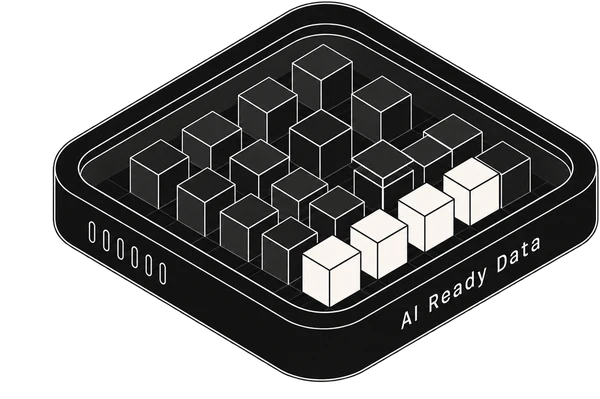
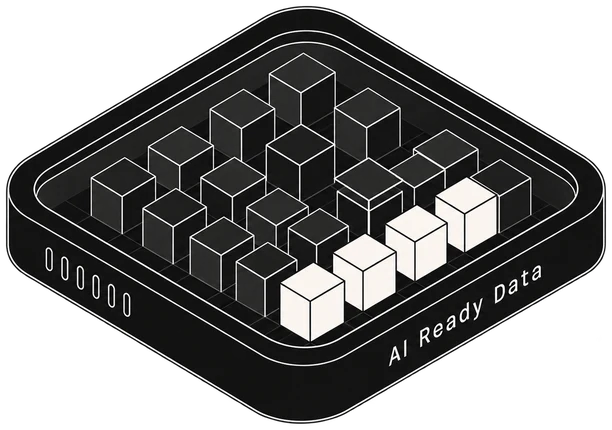
Equal chip bodies, band as designed, rows draw in from their own rule, busier transcript
Chips are cut to the same solid body width (their soft edges had made the
boxes, not the chips, equal). The specimen band keeps its Figma colours; the
per layer dimming is gone. A frame line that was hidden now jumps to its new
place before it draws in, so on 08 to 09 the rows grow left from the right
rule instead of sliding up from the rows of the last screen. The Hear
transcript has two lines per speaker turn, so it moves about every 1.5 s.

diff --git a/js/main.js b/js/main.js
@@ -71,13 +71,27 @@
   var lastCol = 720, lastCol2 = 960, lastRows = [248, 416, 583, 617];
   // Pieces are sized to their real length (a stretched 1 px square blurs on the GPU) and drawn in
   // or retracted with a 0 to 1 scale, which rests at 1 so the line stays crisp.
+  // A piece that was hidden jumps to its new place before it appears, so it draws in from its own
+  // rule (a row grows left from the right rule) instead of sliding over from the last screen.
+  function snap(el, apply) {
+    el.style.transition = "none"; apply(); void el.offsetWidth; el.style.transition = "";
+  }
   function put(el, x, y, o) {
-    el.style.transform = "translate(" + x + "px," + y + "px)";
-    if (o != null) el.style.opacity = o;
+    var tr = "translate(" + x + "px," + y + "px)";
+    if (o != null) {
+      if (!o) { el._on = false; el.style.opacity = 0; return; }      // fades out where it is
+      if (!el._on) snap(el, function () { el.style.transform = tr; el.style.opacity = 0; });
+      el._on = true; el.style.opacity = o;
+    }
+    el.style.transform = tr;
   }
   function seg(el, x, y, w, h, on) {
+    var tr = function (k) { return "translate(" + x + "px," + y + "px) scale(" + (w === 1 ? 1 : k) + "," + (h === 1 ? 1 : k) + ")"; };
+    if (on && !el._on) snap(el, function () { el.style.width = w + "px"; el.style.height = h + "px"; el.style.transform = tr(0); });
+    el._on = !!on;
+    if (!on) { el.style.transform = el.style.transform.replace(/scale\([^)]*\)/, "scale(" + (w === 1 ? 1 : 0) + "," + (h === 1 ? 1 : 0) + ")"); return; }
     el.style.width = w + "px"; el.style.height = h + "px";
-    el.style.transform = "translate(" + x + "px," + y + "px) scale(" + (w === 1 ? 1 : on) + "," + (h === 1 ? 1 : on) + ")";
+    el.style.transform = tr(1);
   }
 
   function applyGeometry(i) {
@@ -233,14 +247,12 @@
 
   // 02 Specimen: five layers, each one play of the clip; the underline under the active layer
   // fills as the clip plays, and the next layer starts when the clip ends. The centre stays clear:
-  // a layer changes the footage, the readout under the clock and the band's figures.
+  // a layer changes the footage and the readout under the clock; the band stays as designed.
   (function () {
     var scene = scenes[1];
     var raw = stage.querySelector(".spec-vid--raw"), ann = stage.querySelector(".spec-vid--annotated");
     var toggles = Array.prototype.slice.call(scene.querySelectorAll(".toggle"));
     var layers = Array.prototype.slice.call(scene.querySelectorAll(".readout__item"));
-    var metrics = scene.querySelector(".metrics");
-    var chips = Array.prototype.slice.call(metrics.children);
     var clock = document.getElementById("spec-clock");
     var layer = 0, active = false, raf = 0, v = raw;
     function videoFor(l) { return l === 1 ? ann : raw; }
@@ -253,9 +265,6 @@
       play(v);
       toggles.forEach(function (t, i) { t.classList.toggle("is-active", i === l); t.setAttribute("aria-selected", i === l); t.style.setProperty("--progress", 0); });
       layers.forEach(function (x) { x.classList.toggle("is-on", +x.dataset.layer === l); });
-      var any = false;
-      chips.forEach(function (c) { var on = +c.dataset.for === l; c.classList.toggle("is-hl", on); any = any || on; });
-      metrics.classList.toggle("is-focused", any);
     }
     function tick() {
       if (!active) return;
@@ -276,8 +285,8 @@
 
   // 04 Hear: the waveform plays like an audio player (visual only). The playhead crosses it,
   // bars before it light up, and the transcript scrolls so the line being spoken holds its slot.
-  // One clock drives all three: a line becomes current the moment the playhead enters its
-  // speaker's cell, and its timestamp is the time the playhead shows at that moment.
+  // One clock drives all three: each speaker's cell holds two lines, a line becomes current the
+  // moment the playhead reaches it, and its timestamp is the time the playhead shows then.
   (function () {
     var barsEl = document.getElementById("wave-bars");
     var ph = document.getElementById("playhead"), phTime = document.getElementById("playhead-time");
@@ -313,7 +322,7 @@
         var rel = j - a;
         l.className = rel === 0 ? "is-active" : rel === -1 ? "is-past" : rel === -2 ? "is-far" : rel === 1 ? "is-next" : "";
       });
-      speakers.forEach(function (sp, j) { sp.classList.toggle("is-active", j === idx); });
+      speakers.forEach(function (sp, j) { sp.classList.toggle("is-active", j === Math.floor(idx / 2)); });
       if (jump) { box.classList.remove("is-reset"); void box.offsetWidth; box.classList.add("is-reset"); requestAnimationFrame(function () { list.classList.remove("is-jump"); }); }
     }
     function tick(now) {
@@ -328,7 +337,8 @@
         else for (var k = Math.max(0, lastBar + 1); k <= upto && k < bars.length; k++) bars[k].classList.add("is-played");
         lastBar = upto;
       }
-      var idx = SEG.findIndex(function (s) { return x >= s[0] && x < s[1]; });
+      var cell = SEG.findIndex(function (s) { return x >= s[0] && x < s[1]; });
+      var idx = cell < 0 ? -1 : cell * 2 + (x >= (SEG[cell][0] + SEG[cell][1]) / 2 ? 1 : 0);
       if (idx !== lastIdx && idx > -1) { speak(idx, idx < lastIdx || lastIdx === -1); lastIdx = idx; }
       raf = requestAnimationFrame(tick);
     }

diff --git a/index.html b/index.html
@@ -8,7 +8,7 @@
   <meta name="theme-color" content="#000000">
   <link rel="preload" href="assets/fonts/Satoshi-Medium.woff" as="font" type="font/woff" crossorigin>
   <link rel="preload" href="assets/video/01-home.jpg?v=4" as="image">
-  <link rel="stylesheet" href="css/style.css?v=8">
+  <link rel="stylesheet" href="css/style.css?v=9">
 </head>
 <body>
   <main class="stage" id="stage">
@@ -80,11 +80,11 @@
         <div class="band band--wide ay" style="left:105px">
           <span class="t-l14">CABG Surgery 024</span>
           <span class="metrics">
-            <span data-for="0"><b class="t-l14">4K</b><i class="t-caps12 c-muted">Video</i></span>
-            <span data-for="0"><b class="t-l14">60 FPS</b><i class="t-caps12 c-muted">Capture rate</i></span>
-            <span data-for="1"><b class="t-l14">16</b><i class="t-caps12 c-muted">Instrument classes</i></span>
-            <span data-for="3"><b class="t-l14">11</b><i class="t-caps12 c-muted">Procedure phases</i></span>
-            <span data-for="4"><b class="t-l14">6</b><i class="t-caps12 c-muted">Audio channels</i></span>
+            <span><b class="t-l14">4K</b><i class="t-caps12 c-muted">Video</i></span>
+            <span><b class="t-l14">60 FPS</b><i class="t-caps12 c-muted">Capture rate</i></span>
+            <span><b class="t-l14">16</b><i class="t-caps12 c-muted">Instrument classes</i></span>
+            <span><b class="t-l14">11</b><i class="t-caps12 c-muted">Procedure phases</i></span>
+            <span><b class="t-l14">6</b><i class="t-caps12 c-muted">Audio channels</i></span>
           </span>
         </div>
       </section>
@@ -103,13 +103,17 @@
         </div>
         <div class="transcript" id="transcript">
           <ol class="transcript__list">
-            <li><span class="t-caps12">00:42:06 · Surgeon</span><span class="line">Retract there.</span><i class="tick"></i></li>
-            <li><span class="t-caps12">00:42:09 · Nurse</span><span class="line">Suction ready.</span><i class="tick"></i></li>
+            <li><span class="t-caps12">00:42:10 · Surgeon</span><span class="line">Retract there.</span><i class="tick"></i></li>
+            <li><span class="t-caps12">00:42:11 · Nurse</span><span class="line">Clamp is on.</span><i class="tick"></i></li>
             <li><span class="t-caps12">00:42:12 · Surgeon</span><span class="line">Prepare the graft.</span><i class="tick"></i></li>
+            <li><span class="t-caps12">00:42:13 · Surgeon</span><span class="line">Check the length.</span><i class="tick"></i></li>
             <li><span class="t-caps12">00:42:15 · Assistant</span><span class="line">Graft ready.</span><i class="tick"></i></li>
+            <li><span class="t-caps12">00:42:17 · Assistant</span><span class="line">Length is good.</span><i class="tick"></i></li>
             <li><span class="t-caps12">00:42:19 · Surgeon</span><span class="line">Hold here.</span><i class="tick"></i></li>
-            <li><span class="t-caps12">00:42:22 · Nurse</span><span class="line">Irrigation ready.</span><i class="tick"></i></li>
-            <li><span class="t-caps12">00:42:25 · Surgeon</span><span class="line">Next suture.</span><i class="tick"></i></li>
+            <li><span class="t-caps12">00:42:20 · Surgeon</span><span class="line">Suture now.</span><i class="tick"></i></li>
+            <li><span class="t-caps12">00:42:22 · Nurse</span><span class="line">Suction ready.</span><i class="tick"></i></li>
+            <li><span class="t-caps12">00:42:23 · Nurse</span><span class="line">Irrigation ready.</span><i class="tick"></i></li>
+            <li><span class="t-caps12">00:42:24 · Surgeon</span><span class="line">Next suture.</span><i class="tick"></i></li>
           </ol>
         </div>
         <div class="wave ay">
@@ -222,9 +226,9 @@
         <!-- Three chips of one size that open out of one: Hospital data rises, AI ready data drops,
              the secure data layer is revealed between them -->
         <div class="chips axc" role="img" aria-label="Three stacked layers: hospital data, a secure data layer and AI ready data">
-          <img class="chip chip--data" src="assets/img/chip-data.webp?v=2" alt="" width="300" height="200">
-          <img class="chip chip--capture" src="assets/img/chip-capture.webp?v=2" alt="" width="300" height="203">
-          <img class="chip chip--hospitals" src="assets/img/chip-hospitals.webp?v=2" alt="" width="300" height="210">
+          <img class="chip chip--data" src="assets/img/chip-data.webp?v=3" alt="" width="306" height="215">
+          <img class="chip chip--capture" src="assets/img/chip-capture.webp?v=3" alt="" width="306" height="214">
+          <img class="chip chip--hospitals" src="assets/img/chip-hospitals.webp?v=3" alt="" width="306" height="216">
         </div>
       </section>
 
@@ -325,6 +329,6 @@
     </div>
   </main>
 
-  <script src="js/main.js?v=7"></script>
+  <script src="js/main.js?v=8"></script>
 </body>
 </html>

diff --git a/css/style.css b/css/style.css
@@ -174,9 +174,6 @@ button.nav__link:hover { color: var(--paper); }
 .metrics i { font-style: normal; }
 .scene--specimen .band { justify-content: space-between; }
 
-.metrics > span { transition: opacity 350ms ease; }
-.metrics.is-focused > span { opacity: 0.35; }
-.metrics.is-focused > span.is-hl { opacity: 1; }
 
 /* What the layer adds, under the clock */
 .readout { position: absolute; right: 104px; top: 185px; width: 240px; height: 120px; }
@@ -269,14 +266,15 @@ button.nav__link:hover { color: var(--paper); }
 .scene.is-leaving { opacity: 0; transition: opacity var(--out) ease, visibility 0s linear var(--out); }
 
 /* ---------- 11 Hospitals ----------
-   Three chips drawn at one width (300), bottoms 175 apart. They start stacked on the middle
+   Three chips cut to the same solid body width (300, images 306 with a 3 px soft edge),
+   body bottoms 175 apart. They start stacked on the middle
    one, so only the top chip shows, then open out: Hospital data rises, AI ready data drops and
    the secure data layer is revealed. The chips carry their own labels. */
-.chips { position: absolute; left: 812px; top: 124px; width: 300px; height: 576px; --lift: 175px; }
-.chip { position: absolute; left: 0; width: 300px; height: auto; display: block; }
-.chip--hospitals { top: 16px; }
-.chip--capture { top: 198px; }
-.chip--data { top: 376px; }
+.chips { position: absolute; left: 809px; top: 124px; width: 306px; height: 580px; --lift: 175px; }
+.chip { position: absolute; left: 0; width: 306px; height: auto; display: block; }
+.chip--hospitals { top: 14px; }
+.chip--capture { top: 190.5px; }
+.chip--data { top: 364.5px; }
 .scene.is-active .chips { animation: rise 600ms cubic-bezier(0.22, 1, 0.36, 1) both; animation-delay: var(--late, 0ms); }
 .scene.is-active .chip--hospitals { animation: chipUp 1000ms cubic-bezier(0.65, 0, 0.35, 1) both; animation-delay: calc(var(--late, 0ms) + 650ms); }
 .scene.is-active .chip--data { animation: chipDown 1000ms cubic-bezier(0.65, 0, 0.35, 1) both; animation-delay: calc(var(--late, 0ms) + 650ms); }
@@ -408,11 +406,11 @@ button.nav__link:hover { color: var(--paper); }
   .stage-row > .t-b16 { width: auto; font-size: 13px; line-height: 18px; max-width: 45%; }
 
   /* 11 */
-  .chips { left: 50%; top: 76px; margin-left: -110px; width: 220px; height: 420px; --lift: 128px; }
-  .chip { width: 220px; }
-  .chip--hospitals { top: 12px; }
-  .chip--capture { top: 145px; }
-  .chip--data { top: 276px; }
+  .chips { left: 50%; top: 76px; margin-left: -112px; width: 224px; height: 425px; --lift: 128px; }
+  .chip { width: 224px; }
+  .chip--hospitals { top: 10px; }
+  .chip--capture { top: 140px; }
+  .chip--data { top: 267px; }
 
   /* 12 */
   .form { left: 36px; top: 84px; width: calc(100vw - 72px); max-height: calc(100svh - 120px); overflow-y: auto; gap: 18px; padding-bottom: 24px; }
